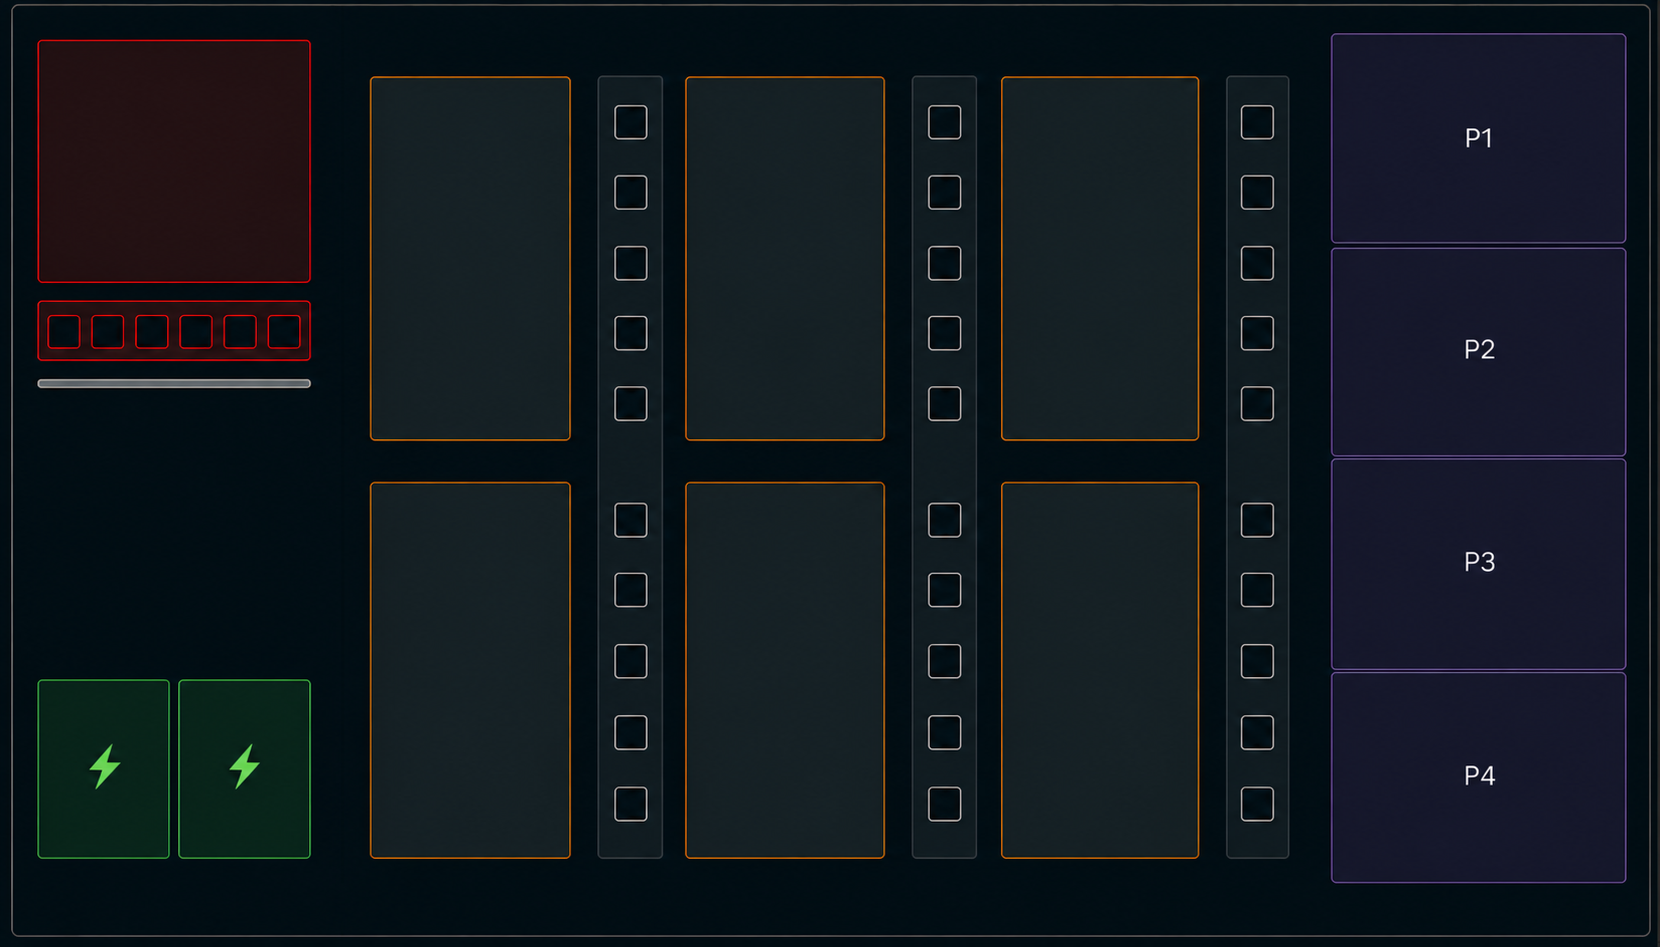
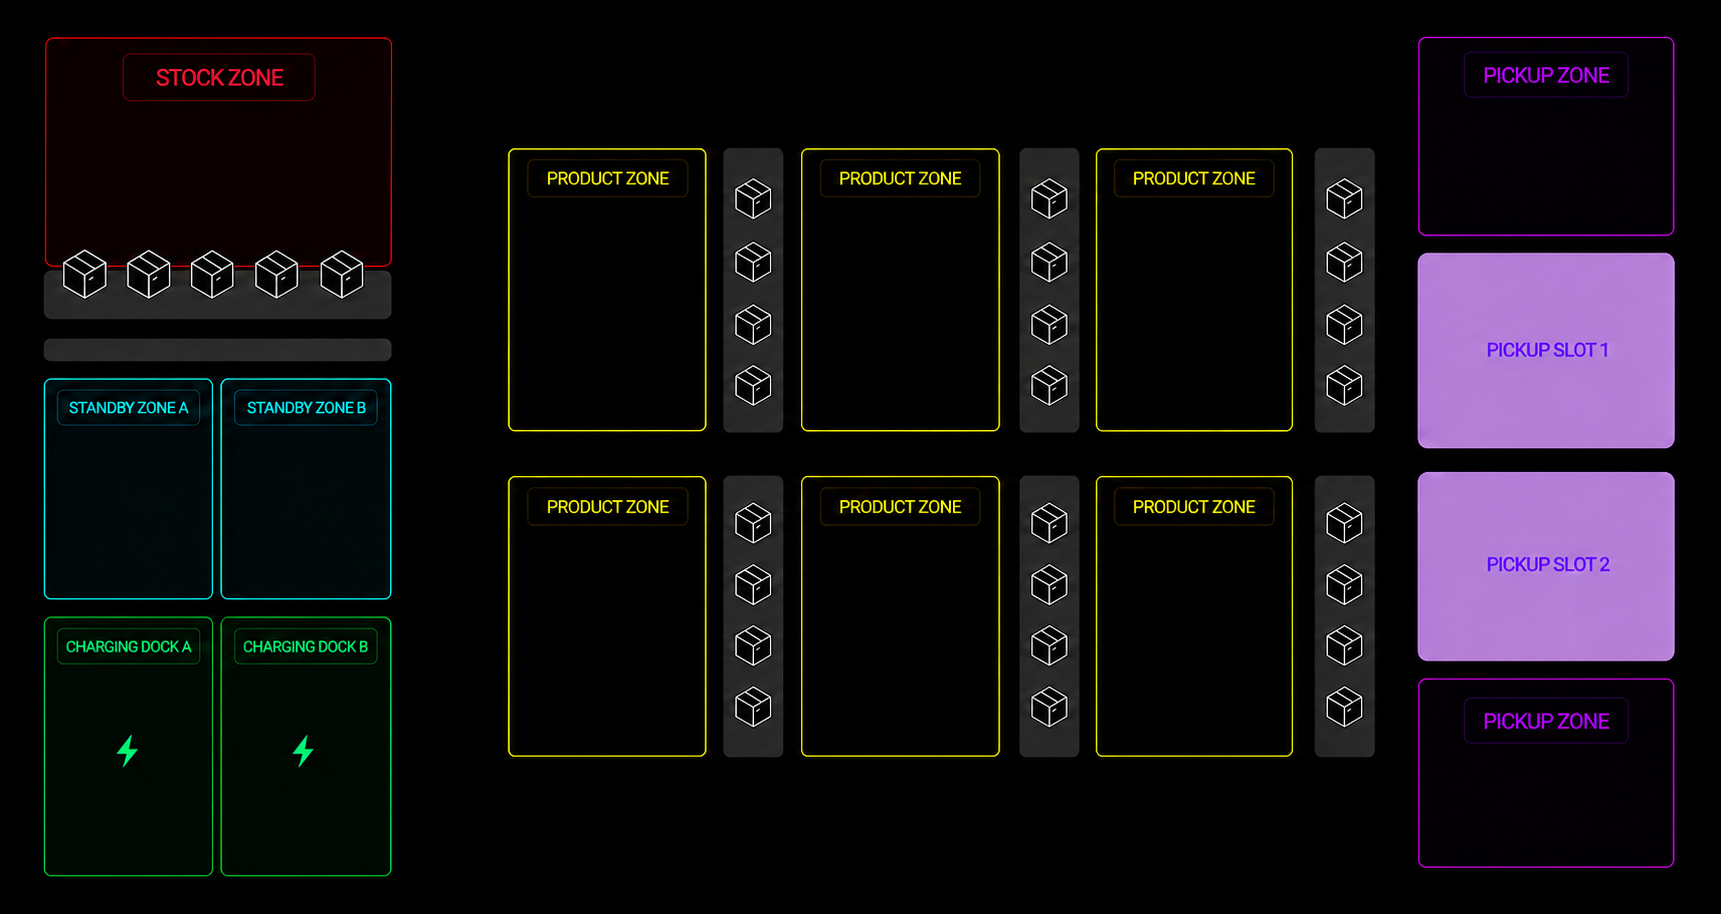
진열 수량 기준 및 관리자 화면 정합성 반영
세부 변경:
- DB display_item 수량 컬럼명 processed_quantity 기준 반영
- 관리자 UI 수량 표시/검색 기준 processed_quantity 반영
- 관리자 미니맵 이미지 교체
- 인터페이스 설계 PDF 최신본 반영
- 데이터 구조 PDF 추가

diff --git a/web/app/static/js/admin.js b/web/app/static/js/admin.js
@@ -379,7 +379,9 @@ function taskRouteLabel(task) {
 
 function taskQuantityLabel(task) {
   const productName = taskProductName(task);
-  const quantity = task?.product_quantity;
+  const quantity =
+    task?.product_quantity ??
+    task?.processed_quantity;
 
   if (productName && quantity !== null && quantity !== undefined) {
     return `${productName} ${quantity}개`;
@@ -2327,6 +2329,8 @@ function taskSearchText(task) {
     label(task.status),
     task.product_name,
     task.product_quantity,
+    task.processed_quantity,
+    task.stock_delta,
     task.priority,
     task.sequence_no,
     task.source_zone_name,